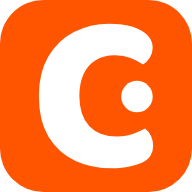
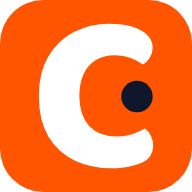
Orange word, dark blue dot
The dot in the C now answers the orange in dark blue, as does the disc
the A sits on, so the logo is two colours rather than one. The browser
tab and app icon are an orange tile with a white C and the same dark
blue dot.

Changed region(s): [[0.625, 0.4062, 0.8125, 0.5938]]

diff --git a/packages/ui/src/components/brand/ClorLogo.jsx b/packages/ui/src/components/brand/ClorLogo.jsx
@@ -3,10 +3,11 @@ import ClorMark from './ClorMark.jsx';
 import { WORD_D, BADGE_D, DOT, BOX_FULL, BOX_PLAIN } from './logoPaths.js';
 
 /**
- * The CLOR logo (13 Nov 2026): CLOR in outlined Baloo 2 ExtraBold, in blaze
- * orange, with the dot in the mouth of the C, and the A for Applications on a
- * dark blue disc at the foot of the R. The A is cut out of the disc, so the
- * ground shows through it and it stays readable when the logo is small.
+ * The CLOR logo (13 Nov 2026): CLOR in outlined Baloo 2 ExtraBold in blaze
+ * orange, with a dark blue dot in the mouth of the C and the A for
+ * Applications on a dark blue disc at the foot of the R. The A is cut out of
+ * the disc, so the ground shows through it and it stays readable when the
+ * logo is small.
  * variant: 'horizontal' (default) | 'mark' (the C and its dot) | 'wordmark' (no badge) | 'stacked'
  */
 
@@ -35,7 +36,7 @@ function Word({ h, color, className, title, badge = true }) {
       {...a11y}
     >
       <path d={WORD_D} fill={paint} />
-      <circle cx={DOT.cx} cy={DOT.cy} r={DOT.r} fill={paint} />
+      <circle cx={DOT.cx} cy={DOT.cy} r={DOT.r} fill={badgeInk} />
       {badge ? <path d={BADGE_D} fill={badgeInk} /> : null}
     </svg>
   );

diff --git a/packages/ui/src/components/brand/ClorMark.jsx b/packages/ui/src/components/brand/ClorMark.jsx
@@ -1,17 +1,18 @@
 import React from 'react';
 import { C_D, DOT } from './logoPaths.js';
 
-/* CLOR icon: the C of the wordmark with the dot in its mouth (13 Nov 2026).
-   Blaze orange, the primary brand colour. Letters are outlined Baloo 2
-   ExtraBold, so no font is needed to draw them. The C spans 0..508 across and
-   0..643 down; this box centres it in a square. */
+/* CLOR icon: the C of the wordmark in blaze orange, the primary brand colour,
+   with the dark blue dot in its mouth (13 Nov 2026). Letters are outlined
+   Baloo 2 ExtraBold, so no font is needed to draw them. The C spans 0..508
+   across and 0..643 down; this box centres it in a square. */
 const BOX = '-81.5 -13.5 671 671';
 const ORANGE = 'rgb(var(--logo-mark-orange, 255 84 0))';
+const SLATE = 'rgb(var(--logo-mark-slate, 15 23 42))';
 
 export default function ClorMark({ size = 28, color, className = '', title = 'CLOR' }) {
   const a11y = title ? { role: 'img', 'aria-label': title } : { 'aria-hidden': 'true' };
   const letter = color || ORANGE;
-  const dot = color || ORANGE;
+  const dot = color || SLATE;
   return (
     <svg
       width={size}

diff --git a/test/people-red-brand.test.js b/test/people-red-brand.test.js
@@ -216,10 +216,13 @@ describe('the logo is the drawn CLOR wordmark with the dot in the C (13 Nov 2026
     expect(mark).toContain('DOT');
   });
 
-  it('blaze orange leads: the word and the mark paint from --logo-mark-orange', () => {
+  it('blaze orange leads, and the dot answers it in dark blue', () => {
     expect(mark).toContain('var(--logo-mark-orange, 255 84 0)');
-    expect(mark).not.toContain('--logo-mark-slate'); /* the mark is one colour */
+    expect(mark).toContain('var(--logo-mark-slate, 15 23 42)');
+    expect(mark).toMatch(/letter = color \|\| ORANGE/);
+    expect(mark).toMatch(/dot = color \|\| SLATE/);
     expect(logo).toContain('var(--logo-mark-orange, 255 84 0)');
+    expect(logo).toMatch(/r=\{DOT\.r\} fill=\{badgeInk\}/);
     expect(mark).not.toContain('92 10 22');   /* oxblood gone */
     expect(mark).not.toContain('245 166 35'); /* marigold gone */
   });
